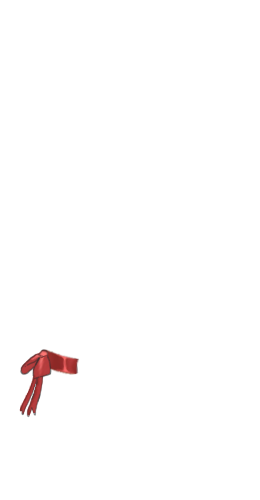
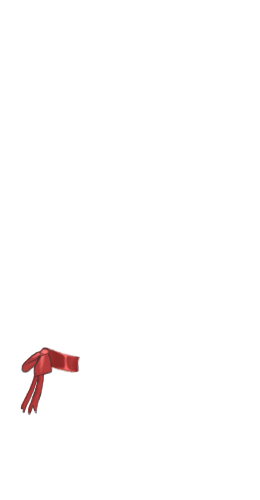
right anklet ribbon

Changed region(s): [[0.0615, 0.69, 0.3077, 0.84]]

diff --git a/BondageClub/Assets/Female3DCG/Female3DCG.js b/BondageClub/Assets/Female3DCG/Female3DCG.js
@@ -616,7 +616,9 @@ var AssetFemale3DCG = [
 		AllowPose: ["LegsClosed", "Spread"],
 		PreviewZone: [100, 700, 300, 300],
 		Asset: [
-			{ Name: "BandAnklet", BuyGroup: "BandAnklet"}
+			{ Name: "BandAnklet", BuyGroup: "BandAnklet"},
+			{ Name: "Ribbon", Fetish: ["Lingerie"], Value: 30, BuyGroup: "Ribbon" },
+			{ Name: "Ribbon1", Fetish: ["Lingerie"], Value: 30, BuyGroup: "Ribbon" }
 		],
 		Color: ["Default", "#bbbbbb", "#808080", "#202020", "#aa8080", "#80aa80", "#8080aa", "#aaaa80", "#80aaaa", "#aa80aa", "#cc3333", "#33cc33", "#3333cc", "#cccc33", "#33cccc", "#cc33cc"]
 	},
@@ -656,14 +658,14 @@ var AssetFemale3DCG = [
 			{ Name: "Sneakers2", Height: 3 },
 			{ Name: "Heels1", Height: 15 },
 			{ Name: "Heels2", Height: 15 },
-			{ Name: "Boots1", Height: 9,
+			{ Name: "Boots1", Height: 9, HideItem: ["LeftAnkletRibbon1", "RightAnkletRibbon1"],
 				Layer: [
 					{ Name: "Shoes", AllowColorize: true},
 					{ Name: "Sides", AllowColorize: true},
 					{ Name: "Laces", AllowColorize: true}
 				]
 			},
-			{ Name: "MistressBoots", Fetish: ["Leather"], Value: -1, HideItem: ["SocksSocks4", "SocksSocks5"], Alpha: [{ Group: ["BodyLower", "Socks", "SuitLower"], Masks: [[75, 875, 350, 200]] }], Height: 35	},
+			{ Name: "MistressBoots", Fetish: ["Leather"], Value: -1, HideItem: ["SocksSocks4", "SocksSocks5", "LeftAnkletRibbon1", "RightAnkletRibbon1"], Alpha: [{ Group: ["BodyLower", "Socks", "SuitLower"], Masks: [[75, 875, 350, 200]] }], Height: 35	},
 			{ Name: "PonyBoots", Fetish: ["Pony"], Value: -1, Alpha: [{ Group: ["BodyLower", "Socks", "SuitLower"], Masks: [[75, 875, 350, 200]] }], Height: 35},
 			{ Name: "Sandals", Priority: 22, Value: 30, HideItem: ["SocksSocks0", "SocksSocks1", "SocksSocks2", "SocksSocks3", "SocksSocks4", "SocksSocks5", "SocksSocks6", "SocksSocksFur"], Height: 3 },
 			{ Name: "SandalsRS", Priority: 22, Value: 30, DefaultColor:["#AA9977", "#999999"], HideItem: ["SocksSocks0", "SocksSocks1", "SocksSocks2", "SocksSocks3", "SocksSocks4", "SocksSocks5", "SocksSocks6", "SocksSocksFur"], Height: 1, Alpha: [{ Group: ["BodyUpper"], Pose: ["Hogtied"], Masks: [[0, 0, 500, 70]] }],
@@ -672,9 +674,9 @@ var AssetFemale3DCG = [
 					{ Name: "Top",  Priority: 22 }
 				]
 			},
-			{ Name: "PawBoots", Fetish: ["Pet"], Value: 45, Height: 3 },
-			{ Name: "WoollyBootsTall", Fetish: ["Pet"], Value: 60, Height: 9 },
-			{ Name: "ThighHighLatexHeels", Fetish: ["Latex"], Value: 80, BuyGroup: "ThighHighLatexHeels",
+			{ Name: "PawBoots", Fetish: ["Pet"], Value: 45, HideItem: ["LeftAnkletRibbon1", "RightAnkletRibbon1"], Height: 3 },
+			{ Name: "WoollyBootsTall", Fetish: ["Pet"], Value: 60, HideItem: ["LeftAnkletRibbon1", "RightAnkletRibbon1"], Height: 9 },
+			{ Name: "ThighHighLatexHeels", Fetish: ["Latex"], Value: 80, HideItem: ["LeftAnkletRibbon1", "RightAnkletRibbon1"], BuyGroup: "ThighHighLatexHeels",
 				Alpha: [
 					{ Group: ["BodyLower", "Socks", "SuitLower"], Masks: [[75, 680, 350, 320]] },
 					{ Group: ["BodyLower", "Socks", "SuitLower"], Pose: ["LegsClosed"], Masks: [[75, 650, 350, 350]] },
@@ -683,13 +685,13 @@ var AssetFemale3DCG = [
 			{ Name: "Heels3", Height: 15, Value: 30 },
 			{ Name: "BarefootSandals1", Hide: ["Socks"], Value: 10, BuyGroup: "BarefootSandals" },
 			{ Name: "LatexAnkleShoes", Fetish: ["Latex"], Value: 60, DefaultColor: ["#373636"], },
-			{ Name: "Flippers", Height: 40, Value: 25, Left: 84,
+			{ Name: "Flippers", Height: 40, Value: 25, HideItem: ["LeftAnkletRibbon1", "RightAnkletRibbon1"], Left: 84,
 				Layer: [
 					{ Name: "Fins",  AllowColorize: true },
 					{ Name: "Shoes",  AllowColorize: false }
 				]
 			},
-			{ Name: "DeluxeBoots", Fetish: ["Leather"], Value: -1, Alpha: [{ Group: ["BodyLower", "Socks", "SuitLower"], Masks: [[180, 900, 50, 100], [280, 900, 50, 100]] }], DefaultColor: ["#9F0D0D", "#700A0A", "#700A0A", "#9F0D0D"], Height: 35,
+			{ Name: "DeluxeBoots", Fetish: ["Leather"], Value: -1, HideItem: ["LeftAnkletRibbon1", "RightAnkletRibbon1"], Alpha: [{ Group: ["BodyLower", "Socks", "SuitLower"], Masks: [[180, 900, 50, 100], [280, 900, 50, 100]] }], DefaultColor: ["#9F0D0D", "#700A0A", "#700A0A", "#9F0D0D"], Height: 35,
 				Layer: [
 					{ Name: "Boots", AllowColorize: true},
 					{ Name: "Laces", AllowColorize: true},
